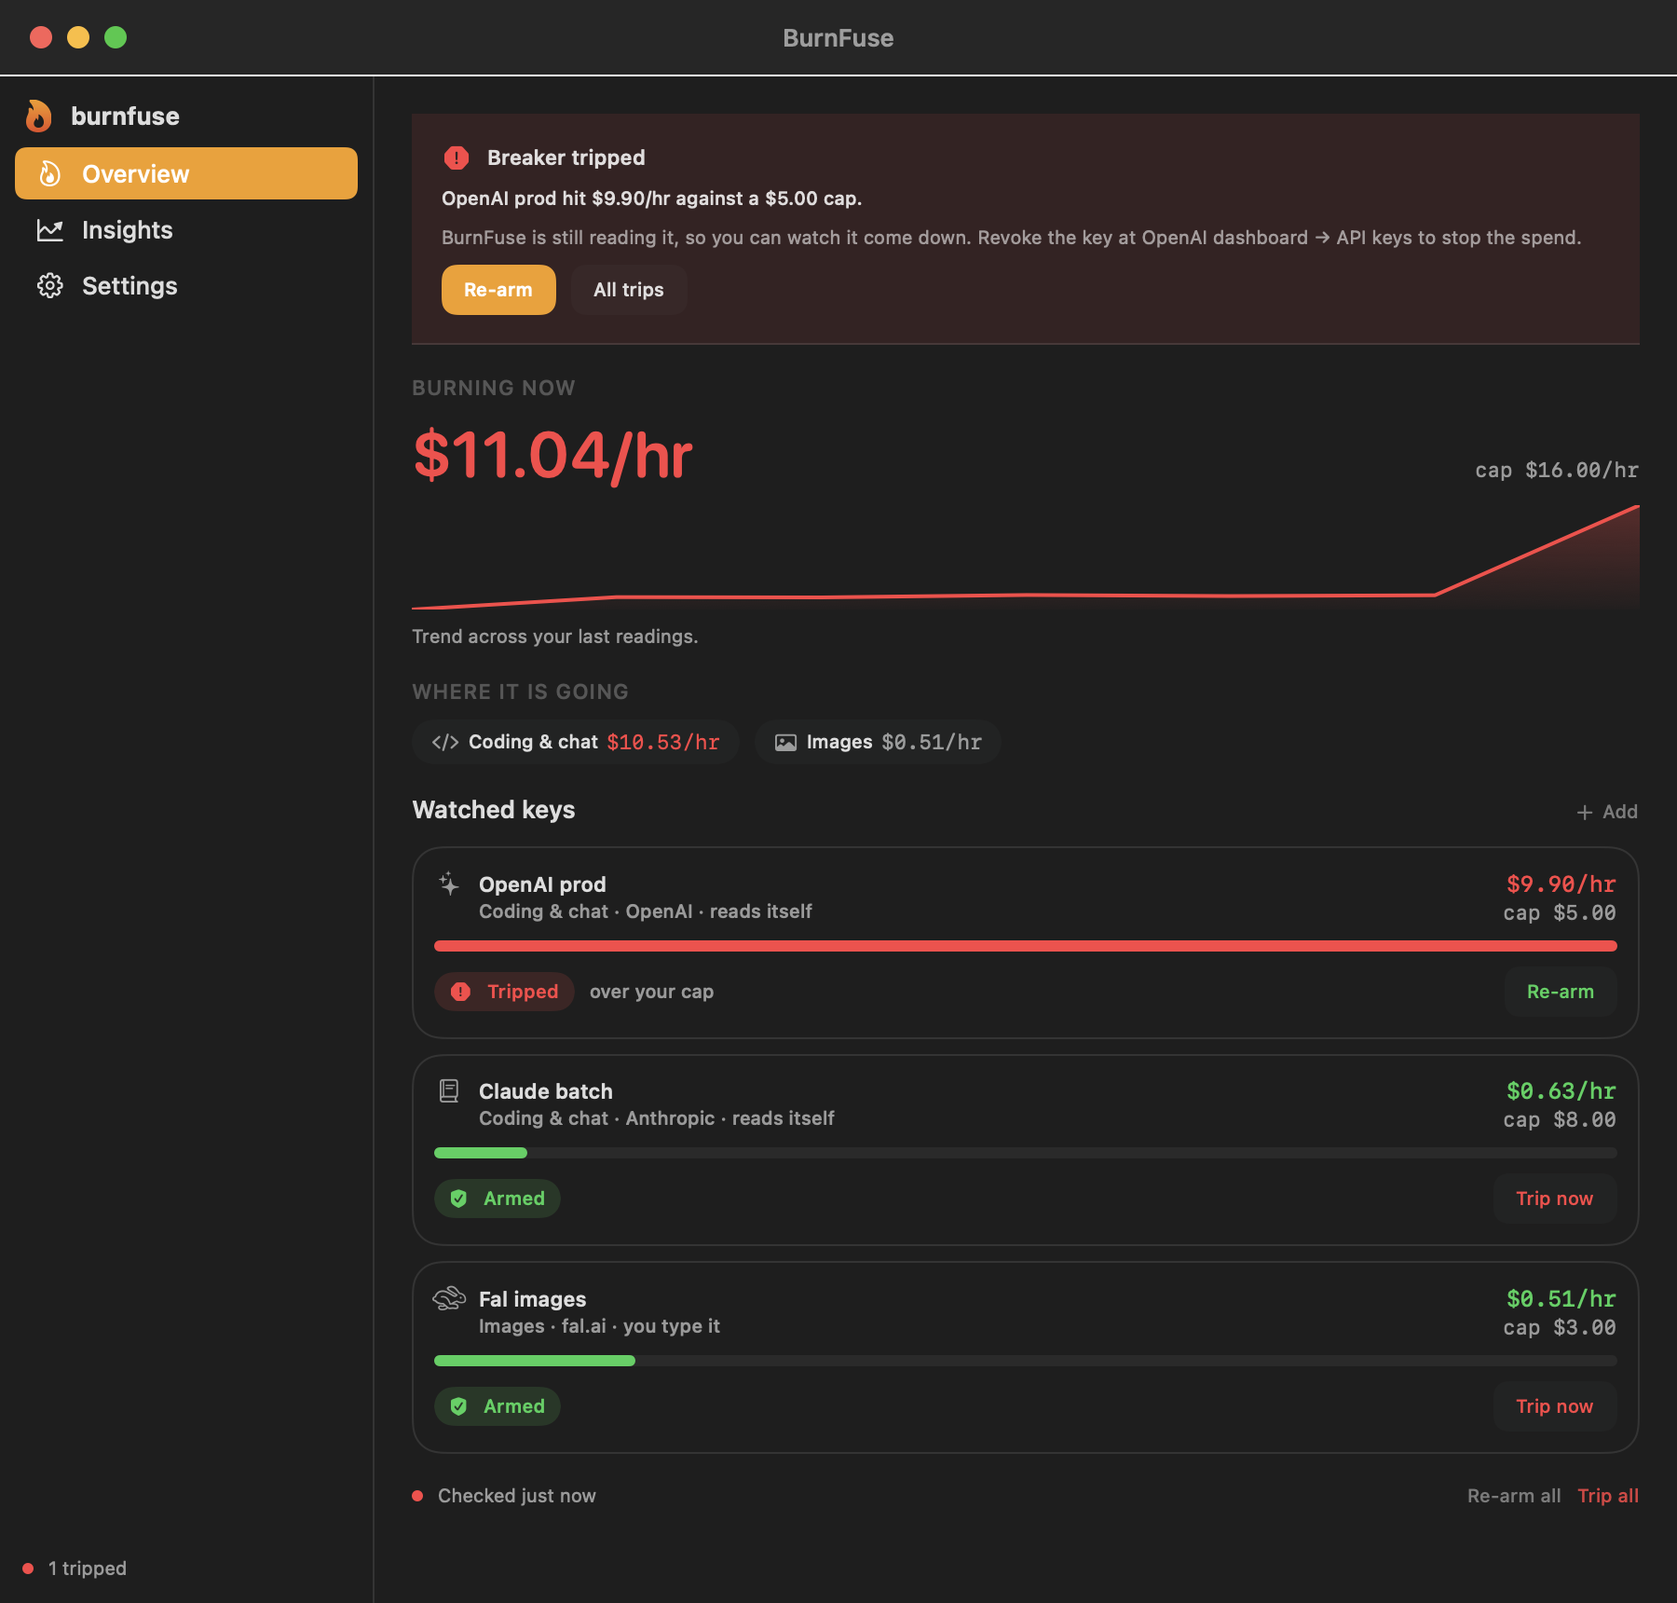
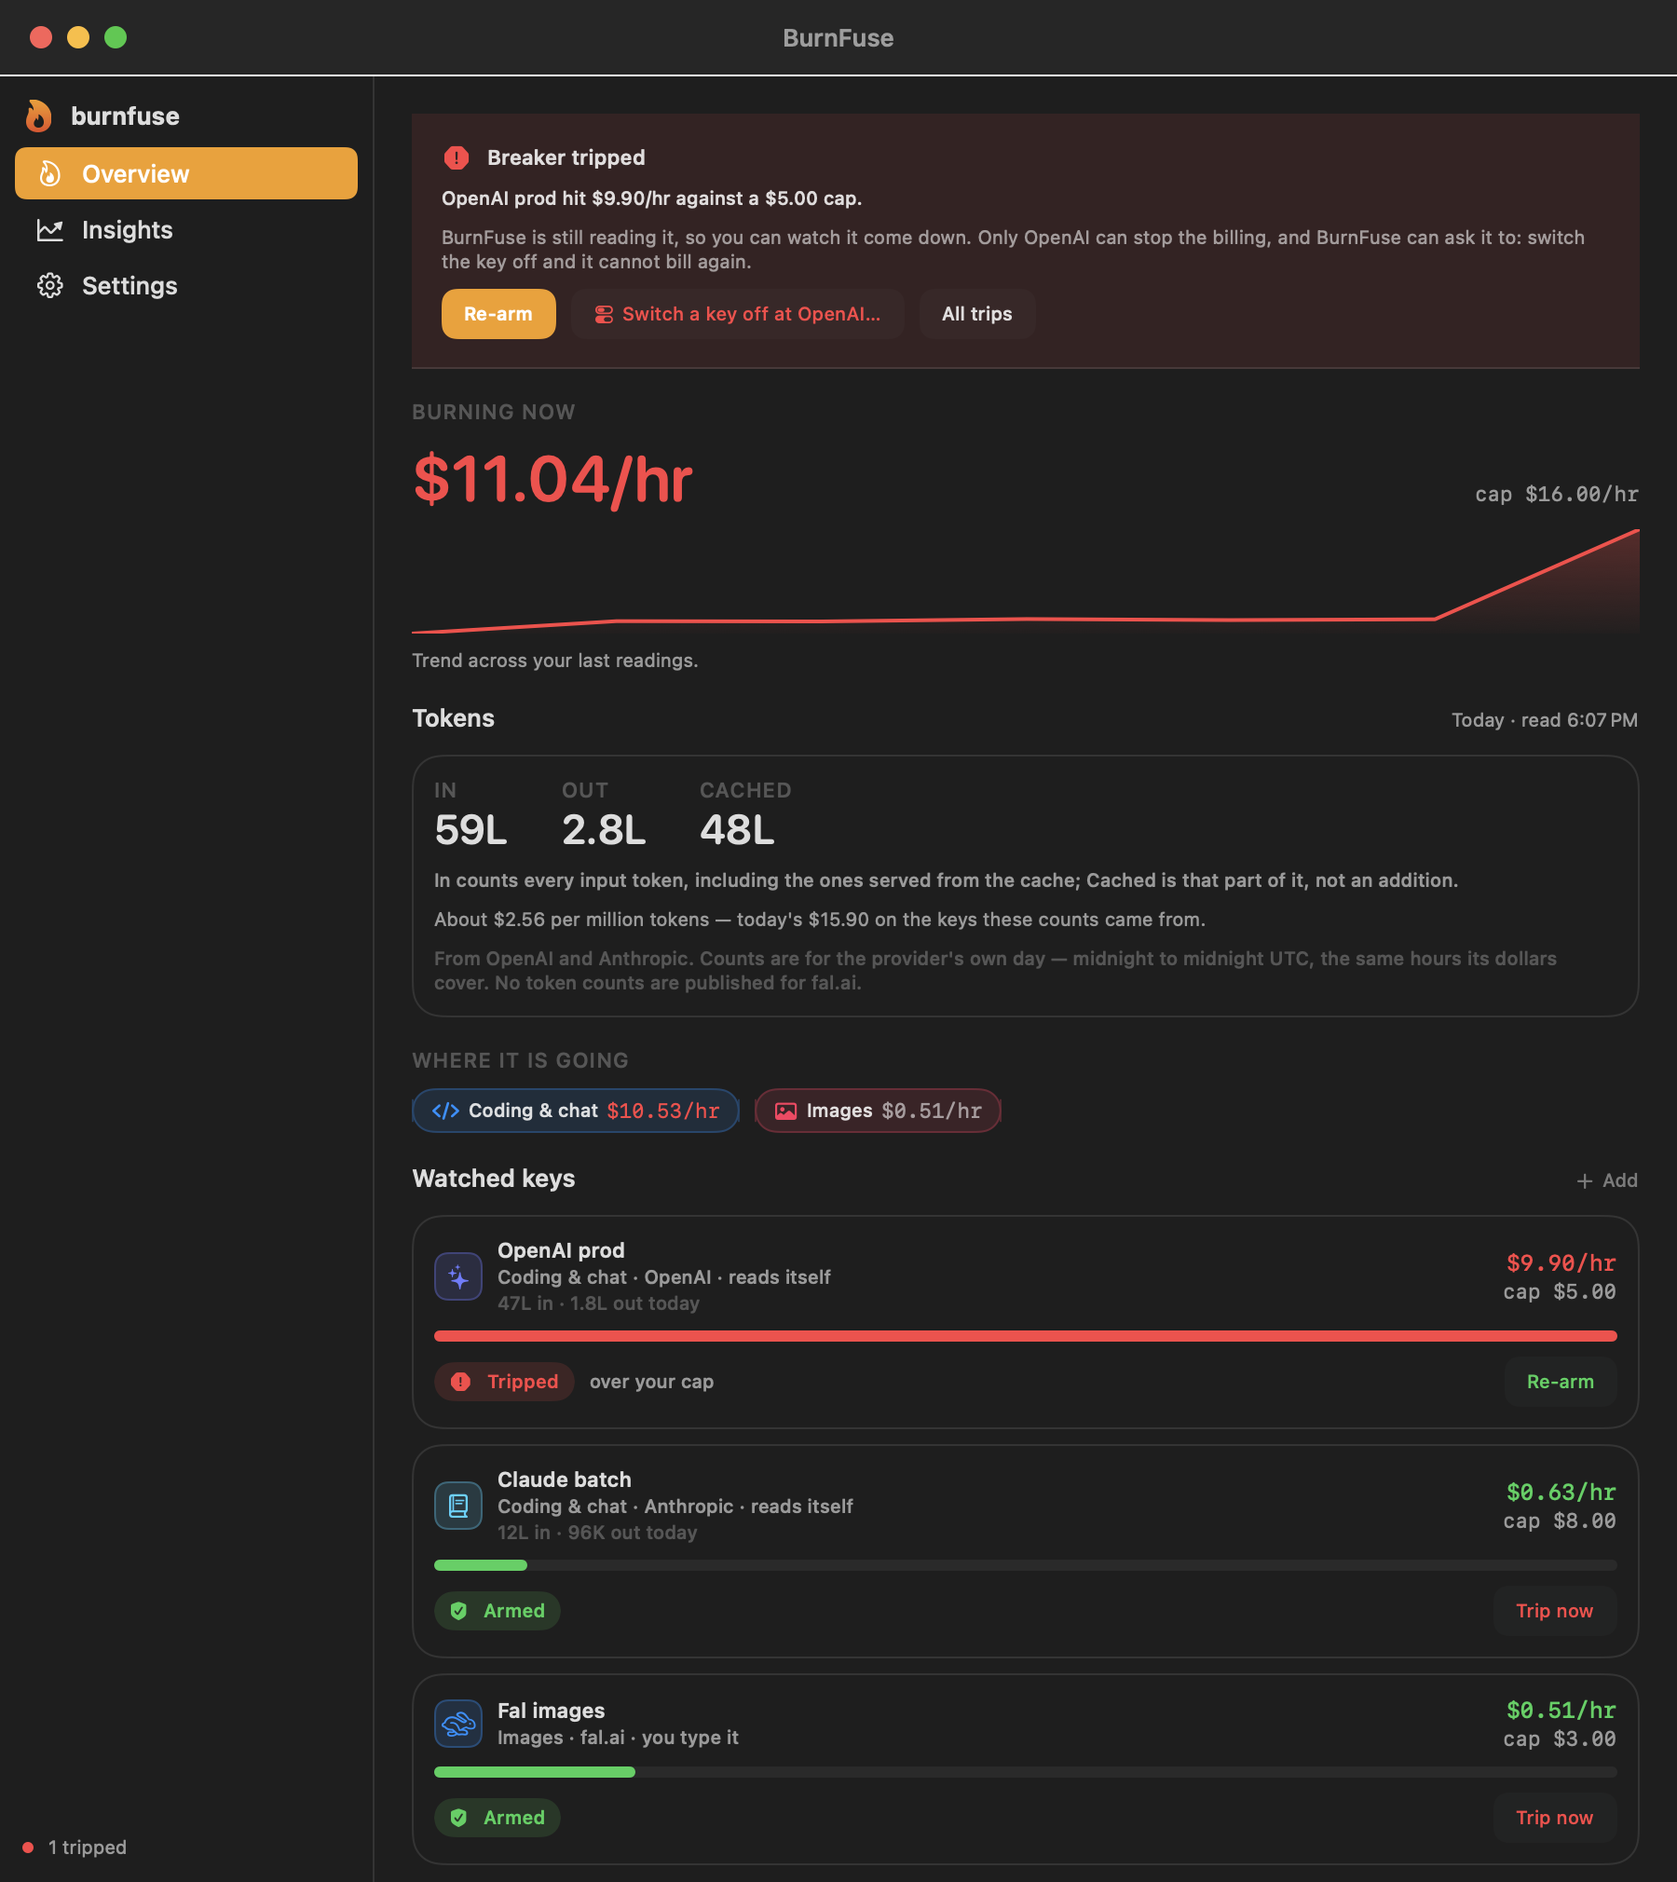
Assets and docs: the shipping UI, regenerated — new mark in the header, one new shot
Every image in the README is a render of the shipping views, so the ones whose
screens changed were regenerated: Overview (the tokens card) and Settings (the
grouped, tiled list). The header mark is the new fuse icon.

Added assets/window-switchoff-dark.png: the switch-off panel open on a key's
own row, with the account's keys as the provider describes them and the key
BurnFuse reads with labelled — the answer to "can it stop the money?" shown
rather than asserted.

The README no longer claims the app cannot revoke: it now says exactly which
providers it can (OpenAI and Anthropic, where the cost read already needs the
Admin key that manages keys), what it does where it cannot (OpenRouter needs a
management key; everyone else has no endpoint), and what it will never do
(offer a switch-off its credential cannot perform, or call a key stopped
before the provider has said so).

social-card.png is deliberately left exactly as it was: it is a README body
image and still carries the old mark.

diff --git a/README.md b/README.md
@@ -1,6 +1,6 @@
 <div align="center">
 
-<img src="assets/icon_512.png" width="128" alt="BurnFuse app icon">
+<img src="assets/icon_512.png" width="128" alt="The BurnFuse icon: a glass fuse whose filament runs calm green to hot red">
 
 # burnfuse
 
@@ -61,10 +61,12 @@ And the colour block itself, in each state:
 
 - **Shows the burn.** One number in your menu bar, in a colour block that reads at a glance: green when settled, amber as it climbs, red when tripped.
 - **Uses the key you already have.** Paste it once and BurnFuse watches that same key — no second key to create, no list to reconcile. Where a provider needs a particular *kind* of key to read spend, the row says so in one line instead of leaving you to guess.
+- **Shows what the tokens say.** Where a provider counts them (OpenAI and Anthropic do), Overview reads today's input, output and cached tokens next to the dollars — because a runaway loop is a token count before it is a bill.
 - **Catches the spike.** It learns each key's normal rate and trips when the rate jumps — even if you never set a cap.
 - **Respects the cap.** Set an hourly ceiling per key. Cross it and the breaker trips.
 - **Tells you inside a minute.** Menu bar red, a desktop notification, and — if you add one — a Slack or Discord ping. Not a billing email you read tomorrow.
-- **States its own limits.** Reading a cost figure and revoking a credential are different permissions. So BurnFuse never claims to have cut a key it cannot cut: every trip names the console page where that key is revoked, because revoking it is what actually stops the billing.
+- **Switches a key off, where it is allowed to.** Reading spend and disabling a key are different permissions, and BurnFuse is exact about which it has. OpenAI and Anthropic hand out the key list to the same Admin key the cost read needs, so there the app can delete a key or set it inactive, with a second press first. Anywhere else it says why not and names the console page instead of pretending.
+- **States its own limits.** It never claims to have cut a key it cannot cut, and it never claims a key is stopped until the provider says so.
 - **Tells you after.** Spending is only half the story. Insights shows every trip and what it was on track to spend.
 
 ## The app
@@ -83,11 +85,44 @@ Light and dark follow the system:
   <img src="assets/window-overview-light.png" width="720" alt="The BurnFuse window on Overview in light appearance">
 </p>
 
+### Tokens
+
+The burn figure says how fast the money is going. The tokens card says **why**: models are
+priced per token and differ by orders of magnitude, so "$9.90/hr" becomes something you can
+act on the moment it reads next to "it pushed four million tokens".
+
+Today's input, output and cached tokens, where the provider reports them — OpenAI and
+Anthropic do, with the same Admin key the cost read already uses, over the same day the
+dollars cover. A few things it is careful about:
+
+- **Cached is a part of In, not an addition to it.** Input counts every input token; the
+  cached figure is the slice that was served from the provider's cache, and the card says so
+  rather than letting the three numbers look like they should add up.
+- **The day is the provider's day** — midnight to midnight UTC, the same hours its bill
+  covers — and a figure from yesterday is never shown under today's heading.
+- **Only real numbers.** Nothing is estimated from a price list: a provider that publishes
+  no token counts shows none. OpenRouter reports credits rather than tokens, so its rows
+  have no counts and the card says exactly that.
+- **One derived figure, and it says where it came from:** today's spend on the keys that
+  reported, divided by what they used — *about $2.56 per million tokens* — an average over
+  whatever mix of models actually ran, written as an average.
+
+Each watched key shows its own line in the list below (*47L in · 1.8L out today*), so a key
+that is feeding tokens in is visible without opening anything. Token counts are the one
+number here that follows your Mac's own number style.
+
 ### Keys
 
 Settings is one list, and the top of that list is where a key goes. Paste the key you
 already use — BurnFuse watches that same key. Nothing to create first, no second key to
 copy, no separate place to register anything.
+
+Keys are grouped under the thing you use them for — *Coding & chat*, *Images*, *Video* —
+and every row leads with its provider's own small tile: the same square for every key from
+that provider, a different colour from the next. So "which of these is the fal.ai key" is a
+glance rather than a read. The category is a menu on the row, so a key filed in the wrong
+group can be moved without re-adding it; colour never carries the meaning on its own, and
+the provider's name is always beside its tile.
 
 As you paste, BurnFuse names the provider from the shape of the key itself (`sk-or-…` is
 OpenRouter, `sk-ant-…` is Anthropic), files it under what you use it for, and tells you in
@@ -115,14 +150,16 @@ BurnFuse gets a key's spend one of three ways, and the row always says which:
 1. **It reads itself.** Paste the key you already use. OpenRouter answers a standard key
    with its own credit usage; OpenAI and Anthropic answer with your organization's costs,
    which their cost APIs accept only from an Admin key — the row says so in one line.
-   A failed read gives the provider's own reason rather than a status code: a standard
-   OpenAI key instead of an Admin one, or an OpenAI key pasted into the OpenRouter row, is
-   named where you typed it rather than failing silently a minute later. A value that is
-   really the placeholder from a sample file is called out as one. Keys are stored on your
-   Mac only, owner-readable, and are sent nowhere except that provider; the row shows just
-   the two ends of the key (`sk-o…0000`), so you can tell which one is stored without it
-   being usable. **Test** asks the provider right then, instead of waiting a minute to
-   find out.
+   That same Admin key is also the one that can list the account's keys and switch one
+   off, which is why those two rows can revoke as well as read (see
+   [what a trip cannot do](#what-a-trip-cannot-do)). A failed read gives the provider's own
+   reason rather than a status code: a standard OpenAI key instead of an Admin one, or an
+   OpenAI key pasted into the OpenRouter row, is named where you typed it rather than
+   failing silently a minute later. A value that is really the placeholder from a sample
+   file is called out as one. Keys are stored on your Mac only, owner-readable, and are
+   sent nowhere except that provider; the row shows just the two ends of the key
+   (`sk-o…0000`), so you can tell which one is stored without it being usable. **Test**
+   asks the provider right then, instead of waiting a minute to find out.
 2. **You type it.** Most providers publish no spend figure at all. Their rows say so in
    plain words and take a number from you — what that key is spending per hour. That is
    all a reading is: one dollar figure per hour. A typed row is a first-class way to use
@@ -183,17 +220,38 @@ Worth being exact about, because "spend breaker" suggests more than any watcher 
 | Marks the key, logs the minute, shows it in the list | yes |
 | Menu bar red, desktop notification, optional Slack/Discord ping | yes |
 | Stops reading the key, if you asked it to | yes — the number freezes as evidence |
-| Revokes the key at the provider | **no** — and it will not imply otherwise |
+| Switches the key off at OpenAI or Anthropic | **yes** — where the app already holds the Admin key those accounts require |
+| Switches a key off anywhere else | **no** — and it says why, and where, rather than implying otherwise |
 
-BurnFuse reads a cost figure with a read-only key. Revoking a credential is a different
-permission, and an app holding revocation rights over your keys would be a bigger risk
-than the leak it watches for. So instead of pretending it cut something, it points
-precisely — *OpenAI dashboard → API keys*, *Claude Console → API keys*, *OpenRouter →
-Settings → Keys* — in the banner, the notification and the webhook alike, so whoever
-sees it first knows what to do.
+The distinction is real and the app is built around it. Reading a cost figure and disabling
+a credential are different permissions, and BurnFuse can only do the second where the
+provider puts both behind one key:
 
-The money is saved when you revoke the key. BurnFuse's job is to make that happen in a
+- **OpenAI and Anthropic.** Your organisation's cost report is Admin-only, and the same
+  Admin key can list the account's keys and remove one. So the trip banner offers it
+  directly — **Switch a key off at OpenAI…** — and Settings has it on every key's row. The
+  panel shows your keys exactly as the provider describes them (name plus the provider's own
+  redaction, `sk-admin…3H6`), labels the one the readings come from, and asks for a second
+  press before anything happens.
+- **OpenRouter.** Changing keys needs a *management* key, and BurnFuse reads with an
+  ordinary one. So the panel says exactly that, and points at *OpenRouter → Settings → Keys*
+  instead of failing with a 403. What it can read is OpenRouter's own ceiling on the key —
+  *"the provider caps this key at $6.50, and it is spent"* — which is the fact that answers
+  "can this key still spend?" without anybody's help.
+- **Everyone else.** There is no such endpoint, so the console is the only door, and the row
+  names the page: *OpenAI dashboard → API keys*, *Claude Console → API keys*, *Replicate →
+  Account → API tokens*, and so on.
+
+Two things it will never do: offer a switch-off its credential cannot perform, and claim a
+key is stopped before the provider has said so. And if you switch off the very key BurnFuse
+reads with, it tells you in that row, because the readings stop with it.
+
+The money is saved when the key is switched off. BurnFuse's job is to make that happen in a
 minute rather than tomorrow morning.
+
+<p align="center">
+  <img src="assets/window-switchoff-dark.png" width="720" alt="BurnFuse Settings with the switch-off panel open: the account's OpenAI keys, each with the provider's own redaction, and the key BurnFuse reads with labelled">
+</p>
 
 ## Insights
 
@@ -228,6 +286,12 @@ That is thirty providers by name, and BurnFuse can read spend for three of them 
 endpoint of your own. The rest genuinely publish no cost figure that a key can read, and
 no amount of wanting changes that. So each row says so, names where the number lives
 instead, and takes it. Nothing in the list is ever a dead end.
+
+The same rule runs through everything else the app can do. Token counts are read where a
+provider counts them (OpenAI and Anthropic) and nowhere else; disabling a key is offered
+where the provider's own API allows the key BurnFuse holds to do it (OpenAI and Anthropic),
+and explained everywhere else. What the app can do at a provider is a fact about that
+provider, and each row says it in one line.
 
 ## Install
 

diff --git a/MARKETING.md b/MARKETING.md
@@ -17,12 +17,13 @@ from the product. Run `./scripts/screenshots.sh` to regenerate the whole set.
 | `assets/menubar-light.png` | 640×34 | Menu-bar item in light appearance |
 | `assets/mini-panel-dark.png` | 320 wide | The menu-bar panel, healthy |
 | `assets/mini-panel-breach-dark.png` | 320 wide | The menu-bar panel, tripped |
-| `assets/window-overview-dark.png` | 900×780 | Primary product shot — README, landing page |
-| `assets/window-overview-light.png` | 900×780 | Light-mode shot |
-| `assets/window-breach-dark.png` | 900×860 | "The moment it matters" — the trip |
+| `assets/window-overview-dark.png` | 900×930 | Primary product shot — README, landing page |
+| `assets/window-overview-light.png` | 900×930 | Light-mode shot |
+| `assets/window-breach-dark.png` | 900×1010 | "The moment it matters" — the trip |
 | `assets/window-insights-dark.png` | 900×581 | What the trips were on track to spend |
 | `assets/window-settings-dark.png` | 900×1180 | Feature shot — one list of keys, each saying how its number gets in |
 | `assets/window-settings-light.png` | 900×1180 | Light-mode feature shot |
+| `assets/window-switchoff-dark.png` | 900×1300 | Switching a key off at the provider, from the key's own row |
 
 ## Where each one is used
 
@@ -45,9 +46,10 @@ from the product. Run `./scripts/screenshots.sh` to regenerate the whole set.
 - Click it and you get a miniature of the app — live burn, the trend, every watched key —
   without leaving what you were doing.
 - Native macOS, everything on your Mac. No account, no telemetry, no server.
-- It tells you inside a minute, and it names the console page where the key is revoked —
-  because revoking it is what stops the spend, and an app that could do that for you
-  would be a bigger risk than the leak it watches for.
+- It tells you inside a minute, and it is exact about what it can do next: where the
+  provider lets the key it already holds switch a key off (OpenAI, Anthropic), the trip
+  offers to do it, with a second press; everywhere else it names the console page, because
+  that is what stops the spend.
 
 ## What to lead with
 
@@ -93,9 +95,21 @@ from the product. Run `./scripts/screenshots.sh` to regenerate the whole set.
 - **"Count-up providers tell you they are measuring."** Some endpoints return a running
   total rather than a rate, so BurnFuse takes a baseline and shows your first real hourly
   figure on the second read, saying so while it works it out instead of inventing a number.
-- **"It tells you what it cannot do."** The hardest claim to make in this category, and
-  the one worth leading with to anyone technical: BurnFuse reads spend, so it cannot
-  revoke a key, and it never says otherwise. Every trip — banner, notification and
-  webhook alike — names the exact console page where the key is revoked, because
-  revoking it is what stops the billing. No other spend watcher is that specific about
-  its own limits, and it is the reason to trust the number it does report.
+- **"It tells you what it cannot do — and does the rest."** The hardest claim to make in
+  this category, and the one worth leading with to anyone technical: reading spend and
+  disabling a key are different permissions, and BurnFuse is exact about which it has. With
+  OpenAI and Anthropic the cost report is Admin-only and the same Admin key can list the
+  account's keys and remove one, so the trip banner offers it directly — and labels the key
+  the readings come from before you touch it. With OpenRouter, changing keys needs a
+  management key, so the app says exactly that and points at the console instead of failing
+  with a 403. No other spend watcher is that specific about its own limits, and it is the
+  reason to trust the number it does report.
+- **"It shows why, not just how fast."** Overview counts today's input, output and cached
+  tokens where the provider reports them — OpenAI and Anthropic, over the same day the
+  dollars cover — and says *"about $2.56 per million tokens, from today's $15.90 on the keys
+  these counts came from"* instead of quoting a price list. A runaway loop is a token count
+  before it is a bill.
+- **"One glance tells you whose key it is."** Keys are grouped by what you use them for,
+  and every row leads with its provider's own tile — the same square for every key from
+  that provider, a different colour from the next. Colour never carries the fact alone; the
+  provider's name sits beside it.
